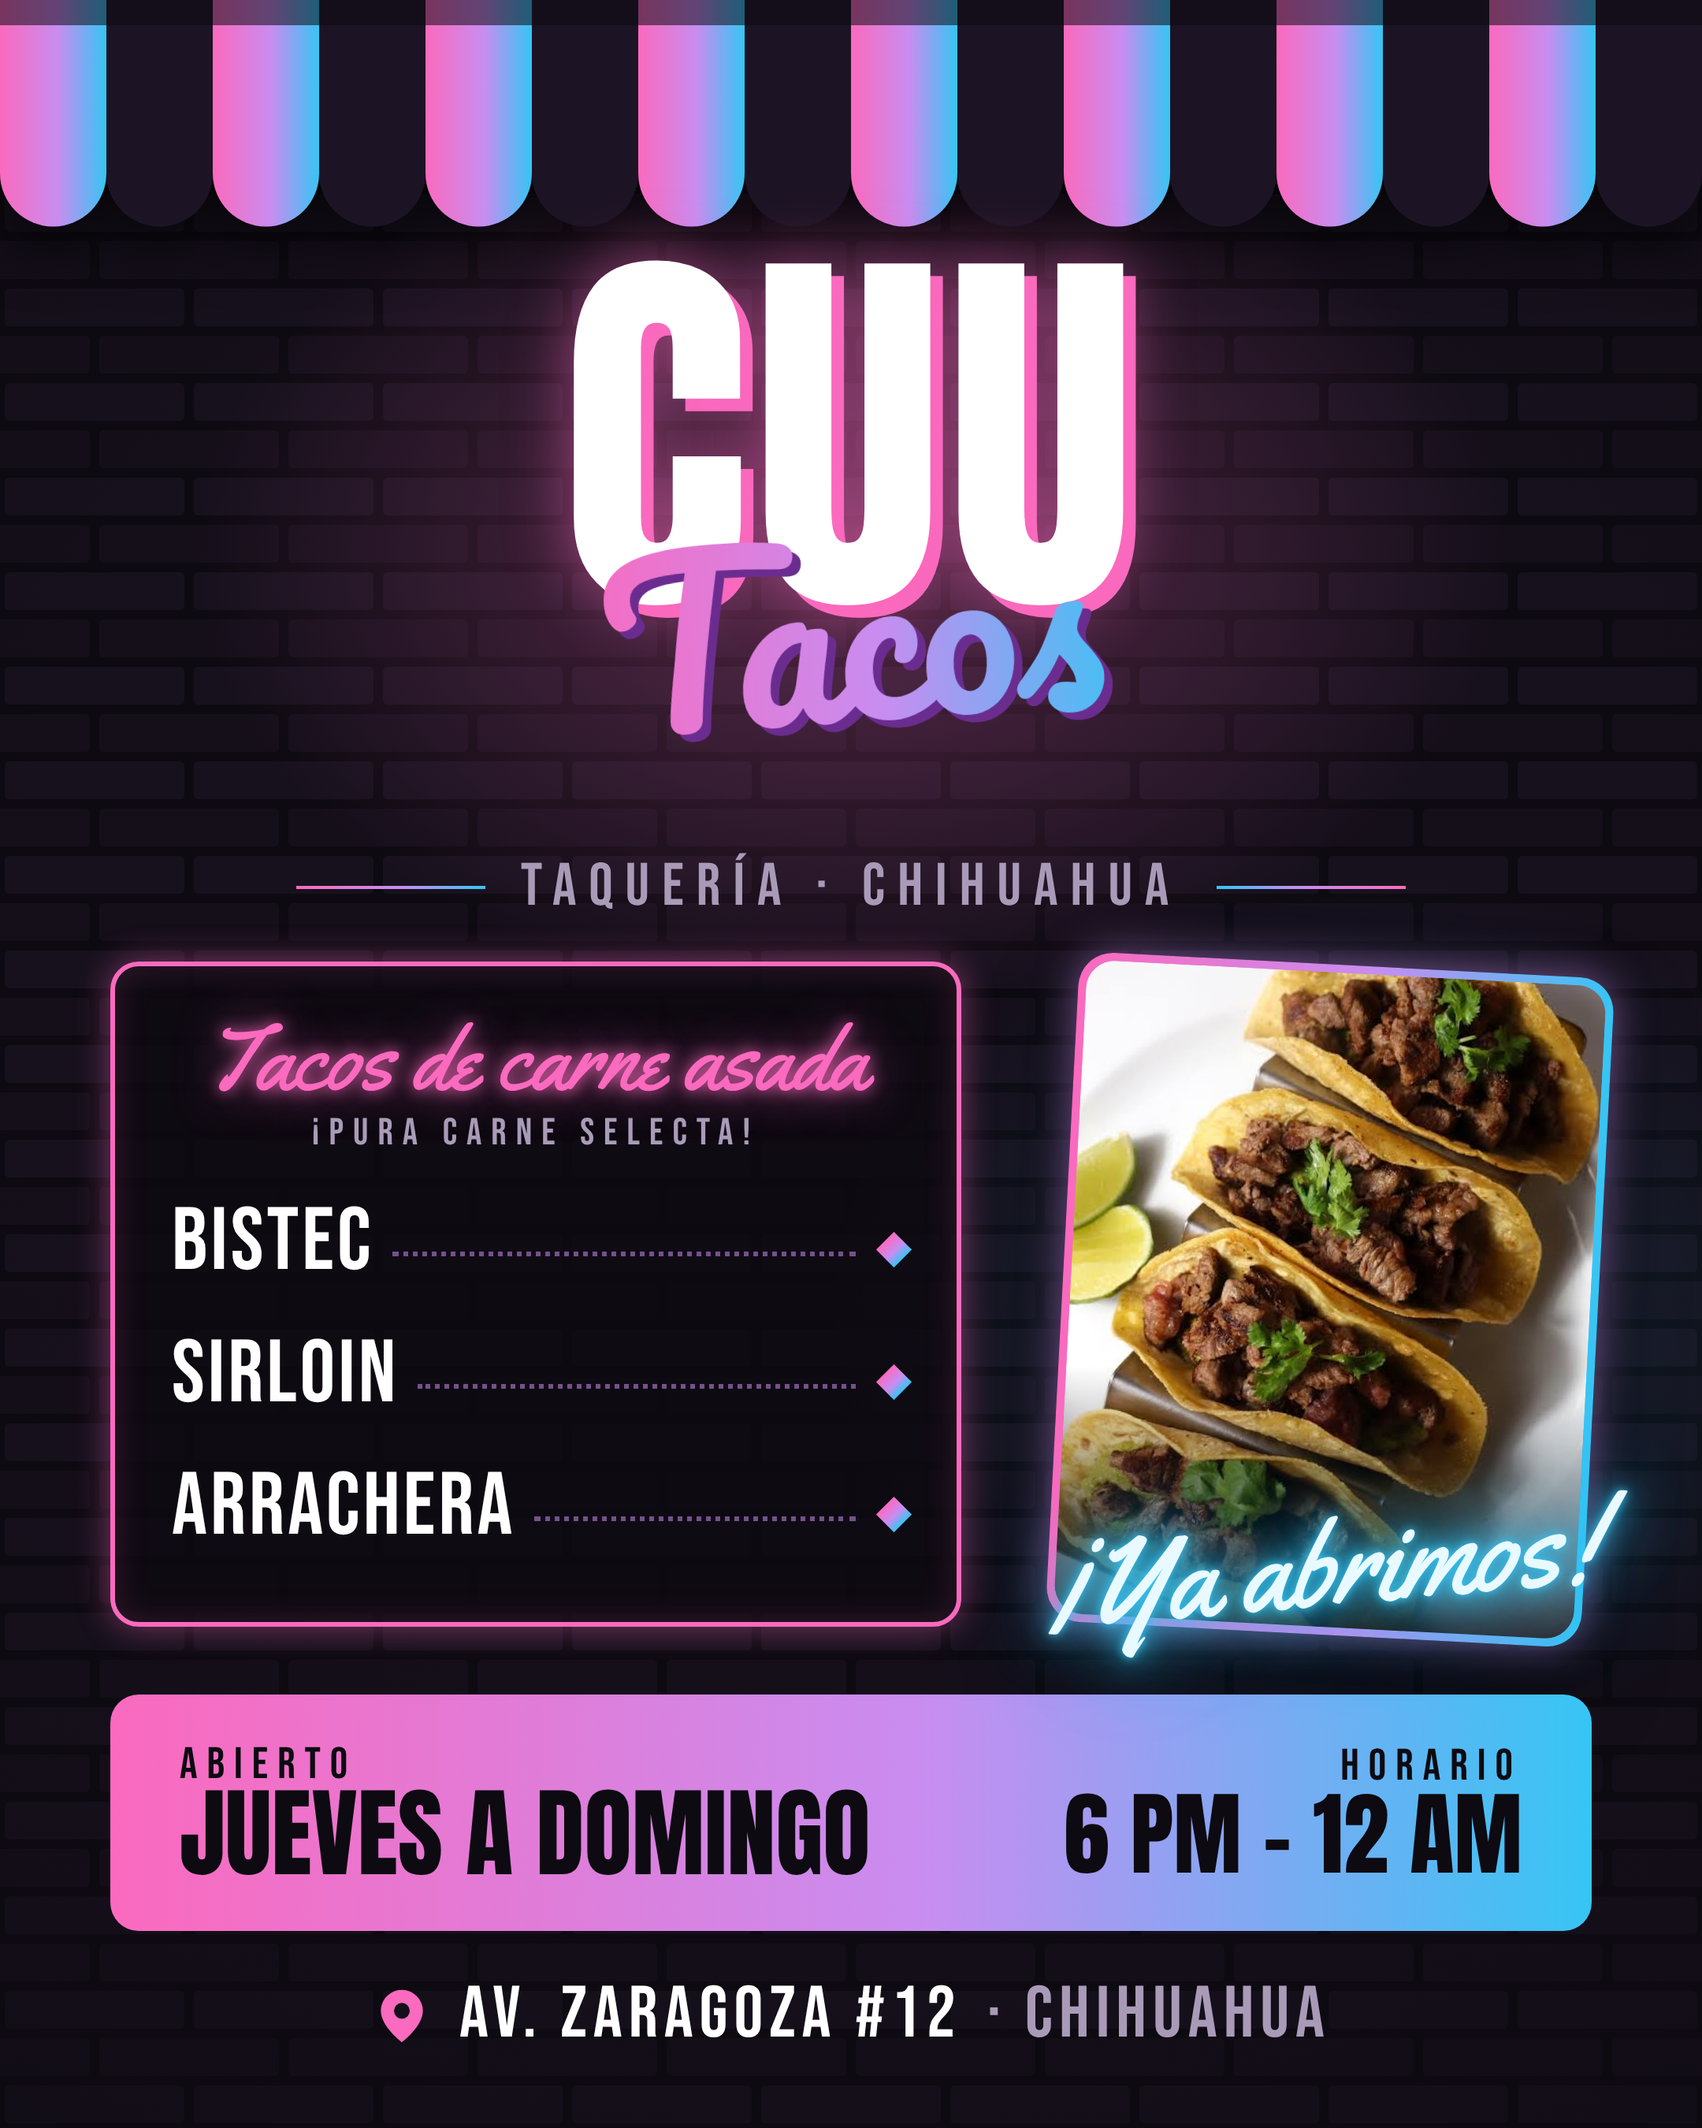
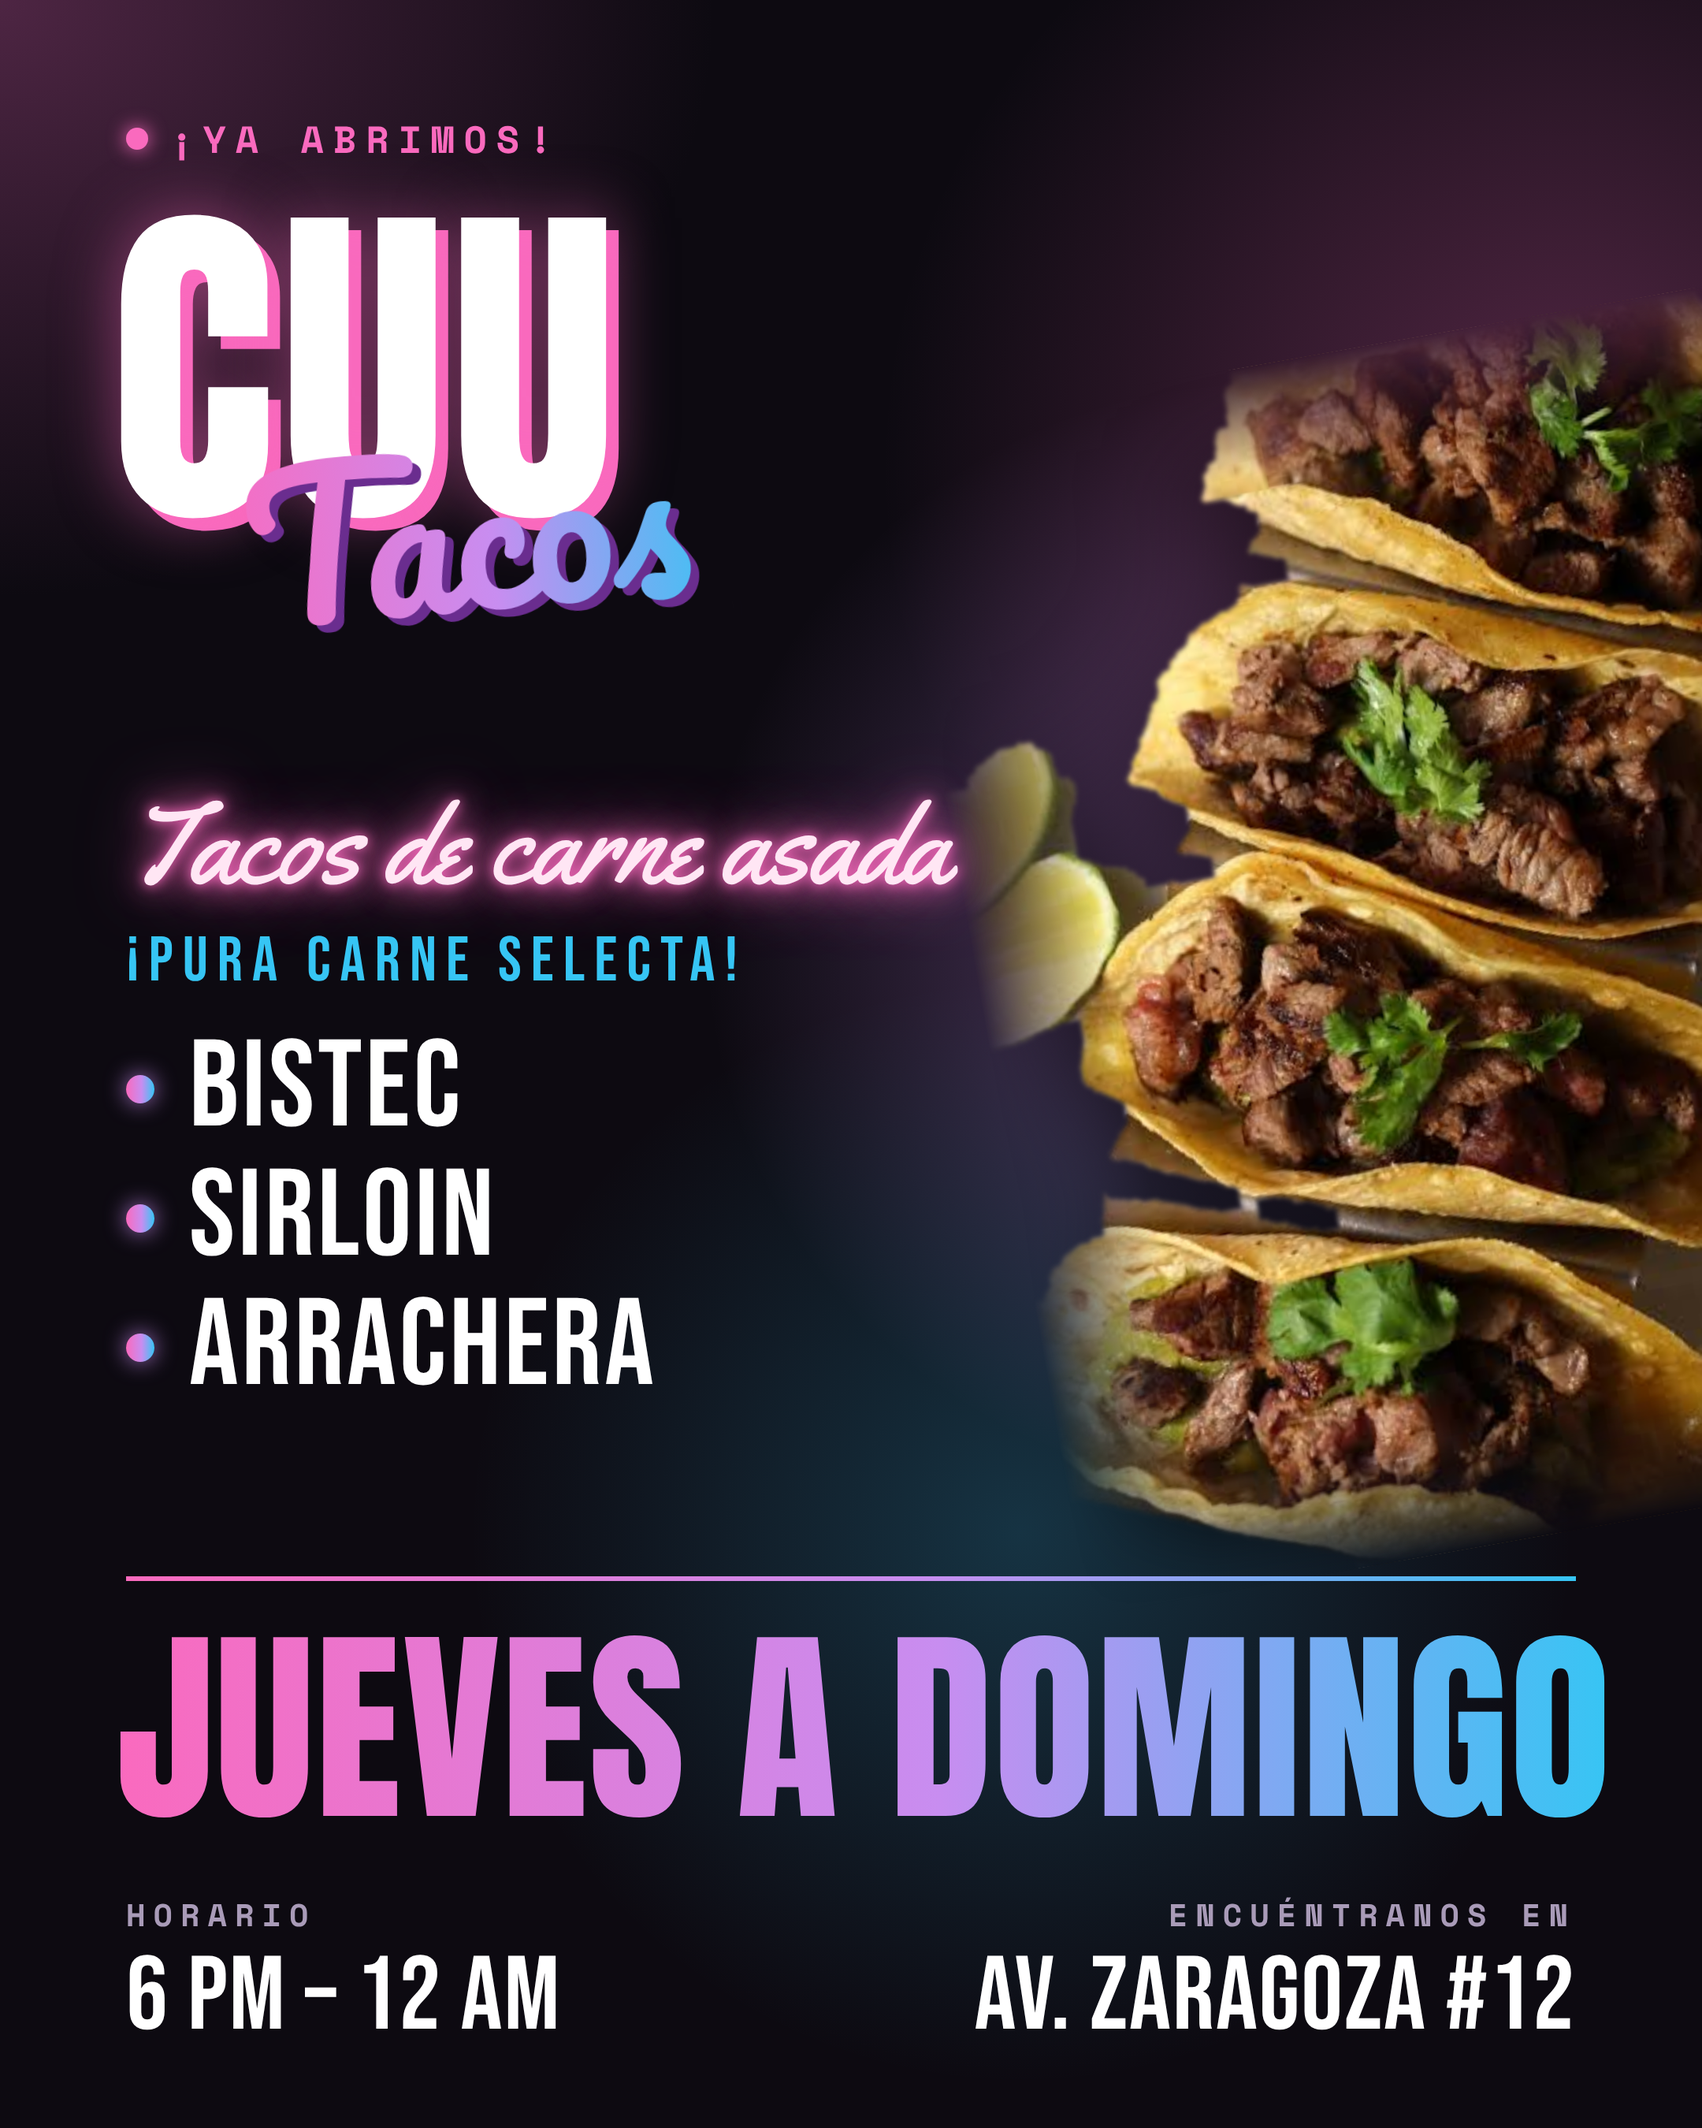
CUU Tacos flyer: modern boxless layout with cut-out taco photo
Claude-Session: https://claude.ai/code/session_014CHHJhy7rNb7XQQ2cW4zXW

diff --git a/flyers/cuu-tacos/flyer.html b/flyers/cuu-tacos/flyer.html
@@ -4,7 +4,7 @@
 <meta charset="UTF-8">
 <title>CUU Tacos — Flyer</title>
 <link rel="preconnect" href="https://fonts.googleapis.com">
-<link href="https://fonts.googleapis.com/css2?family=Anton&family=Pacifico&family=Bebas+Neue&family=Yellowtail&family=DM+Sans:wght@500;700&display=swap" rel="stylesheet">
+<link href="https://fonts.googleapis.com/css2?family=Anton&family=Pacifico&family=Bebas+Neue&family=Yellowtail&family=Space+Mono:wght@700&display=swap" rel="stylesheet">
 <style>
   /* Paleta CUU Studio */
   :root {
@@ -20,143 +20,83 @@
   * { margin: 0; padding: 0; box-sizing: border-box; }
   body { background: #222; }
   .flyer {
-    width: 1080px; height: 1350px; position: relative; overflow: hidden;
-    background: var(--bg); color: var(--white);
-    font-family: 'DM Sans', sans-serif;
-  }
-  .wall { position: absolute; inset: 0; }
-  .vignette { position: absolute; inset: 0;
+    width: 1080px; height: 1350px; position: relative; overflow: hidden; color: var(--white);
     background:
-      radial-gradient(ellipse 55% 30% at 50% 26%, rgba(250,106,190,.30), transparent 70%),
-      radial-gradient(ellipse 45% 30% at 80% 62%, rgba(54,197,244,.14), transparent 70%),
-      radial-gradient(ellipse 120% 90% at 50% 45%, transparent 40%, rgba(13,10,17,.92) 100%); }
-  .content { position: relative; height: 100%; }
+      radial-gradient(circle at 74% 44%, rgba(200,141,240,.38), transparent 32%),
+      radial-gradient(circle at 92% 22%, rgba(250,106,190,.30), transparent 30%),
+      radial-gradient(circle at 60% 72%, rgba(54,197,244,.22), transparent 30%),
+      radial-gradient(ellipse 60% 40% at 0% 0%, rgba(89,42,76,.85), transparent 70%),
+      var(--bg);
+  }
+  .abs { position: absolute; }
 
-  /* Toldo */
-  .awning { position: absolute; top: 0; left: 0; width: 100%; height: 150px; filter: drop-shadow(0 14px 18px rgba(0,0,0,.6)); }
+  /* Tacos recortados */
+  .tacos-img { right: -150px; top: 215px; width: 610px; transform: rotate(-10deg);
+    filter: drop-shadow(0 30px 40px rgba(0,0,0,.65));
+    -webkit-mask-image: linear-gradient(to bottom, transparent 0%, #000 9%, #000 90%, transparent 100%), linear-gradient(to right, transparent 0%, #000 14%);
+    -webkit-mask-composite: source-in;
+            mask-image: linear-gradient(to bottom, transparent 0%, #000 9%, #000 90%, transparent 100%), linear-gradient(to right, transparent 0%, #000 14%);
+            mask-composite: intersect; }
+
+  .label { left: 80px; top: 70px; display: flex; align-items: center; gap: 14px;
+    font-family: 'Space Mono', monospace; font-size: 24px; letter-spacing: 6px; color: var(--pink); text-transform: uppercase; }
+  .label::before { content: ""; width: 14px; height: 14px; border-radius: 50%; background: var(--pink); box-shadow: 0 0 12px var(--pink); }
 
   /* Logo */
-  .brand { position: absolute; top: 170px; left: 0; right: 0; text-align: center; line-height: .85; }
-  .brand .cuu { font-family: 'Anton', sans-serif; font-size: 250px; letter-spacing: 4px; color: var(--white);
-    text-shadow: 0 0 40px rgba(250,106,190,.55), 8px 8px 0 var(--pink); }
-  .brand .tacos { font-family: 'Pacifico', cursive; font-size: 140px; display: inline-block;
-    margin-top: -44px; padding: 0 24px 10px; transform: rotate(-4deg);
+  .brand { left: 70px; top: 140px; line-height: .85; }
+  .brand .cuu { font-family: 'Anton', sans-serif; font-size: 220px; letter-spacing: 4px; color: var(--white);
+    text-shadow: 0 0 40px rgba(250,106,190,.5), 8px 8px 0 var(--pink); }
+  .brand .tacos { font-family: 'Pacifico', cursive; font-size: 124px; display: inline-block;
+    margin: -44px 0 0 60px; padding: 0 24px 12px; transform: rotate(-5deg);
     background: var(--grad); -webkit-background-clip: text; background-clip: text; color: transparent;
     filter: drop-shadow(5px 5px 0 var(--deep)); }
 
-  .tagline { position: absolute; top: 540px; left: 0; right: 0; display: flex; align-items: center; justify-content: center; gap: 22px;
-    font-family: 'Bebas Neue', sans-serif; font-size: 38px; letter-spacing: 8px; color: var(--muted); }
-  .tagline::before, .tagline::after { content: ""; width: 120px; height: 2px; background: var(--grad); }
-  .tagline::after { transform: scaleX(-1); }
+  .headline { left: 80px; top: 500px; }
+  .headline h2 { font-family: 'Yellowtail', cursive; font-weight: 400; font-size: 72px; line-height: 1; color: #FFE6F4;
+    text-shadow: 0 0 8px var(--pink), 0 0 22px var(--pink), 0 0 44px rgba(250,106,190,.7); }
+  .headline p { margin-top: 14px; font-family: 'Bebas Neue', sans-serif; font-size: 40px; letter-spacing: 6px; color: var(--sky); }
 
-  /* Menú (pizarra) */
-  .menu { position: absolute; top: 610px; left: 70px; width: 540px; padding: 30px 36px 30px;
-    background: rgba(13,10,17,.82); border-radius: 18px;
-    border: 3px solid var(--pink); box-shadow: 0 0 22px rgba(250,106,190,.45), inset 0 0 22px rgba(250,106,190,.15); }
-  .menu h3 { font-family: 'Yellowtail', cursive; font-weight: 400; font-size: 58px; line-height: 1; color: var(--pink);
-    text-shadow: 0 0 10px rgba(250,106,190,.9), 0 0 30px rgba(250,106,190,.6); text-align: center; }
-  .menu h3 small { display: block; margin-top: 6px; font-family: 'Bebas Neue', sans-serif; font-size: 24px; letter-spacing: 6px; color: var(--muted); text-shadow: none; }
-  .menu ul { list-style: none; margin-top: 16px; }
-  .menu li { display: flex; align-items: baseline; gap: 12px; padding: 14px 0; }
-  .menu li b { font-family: 'Bebas Neue', sans-serif; font-weight: 400; font-size: 56px; letter-spacing: 2px; line-height: 1; }
-  .menu li i { flex: 1; border-bottom: 3px dotted rgba(200,141,240,.55); transform: translateY(-8px); }
-  .menu li span { width: 16px; height: 16px; transform: rotate(45deg) translateY(-6px); background: var(--grad); flex: none; }
+  .cuts { left: 80px; top: 650px; }
+  .cuts div { display: flex; align-items: center; gap: 22px; font-family: 'Bebas Neue', sans-serif; font-size: 78px; line-height: 1.05; letter-spacing: 2px; }
+  .cuts span { width: 18px; height: 18px; border-radius: 50%; background: var(--grad); box-shadow: 0 0 14px rgba(200,141,240,.8); }
 
-  /* Foto */
-  .photo { position: absolute; top: 612px; right: 66px; width: 340px; height: 425px; border-radius: 22px; padding: 5px;
-    background: var(--grad); transform: rotate(3deg);
-    box-shadow: 0 0 26px rgba(200,141,240,.55), 0 24px 50px rgba(0,0,0,.6); }
-  .photo img { width: 100%; height: 100%; object-fit: cover; border-radius: 18px; display: block; }
-  .photo::after { content: ""; position: absolute; inset: 5px; border-radius: 18px;
-    background: linear-gradient(to top, rgba(13,10,17,.85) 0%, rgba(13,10,17,0) 38%); }
-  .neon-open { position: absolute; top: 955px; right: 40px; width: 400px; white-space: nowrap; z-index: 2; text-align: center;
-    font-family: 'Yellowtail', cursive; font-size: 76px; line-height: 1; color: #E8FAFF; transform: rotate(-5deg);
-    text-shadow: 0 0 6px var(--sky), 0 0 18px var(--sky), 0 0 40px var(--sky), 0 0 70px rgba(54,197,244,.7); }
-
-  /* Letrero de horario */
-  .hours { position: absolute; top: 1075px; left: 70px; right: 70px; height: 150px;
-    display: flex; align-items: center; justify-content: space-between; padding: 0 44px;
-    background: var(--grad); border-radius: 18px; color: var(--bg); }
-  .hours .days { font-family: 'Anton', sans-serif; font-size: 62px; line-height: .95; text-transform: uppercase; }
-  .hours .days small { display: block; font-family: 'Bebas Neue', sans-serif; font-size: 28px; letter-spacing: 6px; }
-  .hours .time { text-align: right; font-family: 'Anton', sans-serif; font-size: 58px; line-height: 1; }
-  .hours .time small { display: block; font-family: 'Bebas Neue', sans-serif; font-size: 28px; letter-spacing: 6px; }
-
-  /* Dirección */
-  .addr { position: absolute; bottom: 44px; left: 0; right: 0; display: flex; align-items: center; justify-content: center; gap: 16px;
-    font-family: 'Bebas Neue', sans-serif; font-size: 46px; letter-spacing: 4px; }
-  .addr svg { width: 40px; height: 40px; }
-  .addr em { font-style: normal; color: var(--muted); }
+  /* Parte de abajo */
+  .rule { left: 80px; right: 80px; top: 1000px; height: 3px; background: var(--grad); }
+  .days { left: 74px; top: 1030px; font-family: 'Anton', sans-serif; font-size: 132px; line-height: 1; text-transform: uppercase; letter-spacing: 1px;
+    background: var(--grad); -webkit-background-clip: text; background-clip: text; color: transparent; }
+  .info { left: 80px; right: 80px; top: 1200px; display: flex; justify-content: space-between; align-items: flex-end; }
+  .info .k { font-family: 'Space Mono', monospace; font-size: 20px; letter-spacing: 5px; color: var(--muted); text-transform: uppercase; }
+  .info .v { font-family: 'Bebas Neue', sans-serif; font-size: 66px; line-height: 1; margin-top: 6px; letter-spacing: 1px; }
+  .info .r { text-align: right; }
 </style>
 </head>
 <body>
 <div class="flyer">
-  <!-- Pared de ladrillo -->
-  <svg class="wall" width="1080" height="1350">
-    <defs>
-      <pattern id="brick" width="120" height="60" patternUnits="userSpaceOnUse">
-        <rect width="120" height="60" fill="#0D0A11"/>
-        <rect x="3" y="3" width="114" height="24" rx="3" fill="#17111D"/>
-        <rect x="-57" y="33" width="114" height="24" rx="3" fill="#150F1A"/>
-        <rect x="63" y="33" width="114" height="24" rx="3" fill="#150F1A"/>
-      </pattern>
-    </defs>
-    <rect width="1080" height="1350" fill="url(#brick)"/>
-  </svg>
-  <div class="vignette"></div>
+  <img class="abs tacos-img" src="tacos-cut.png" alt="Tacos de carne asada">
 
-  <div class="content">
-    <!-- Toldo -->
-    <svg class="awning" viewBox="0 0 1080 150" preserveAspectRatio="none">
-      <defs>
-        <linearGradient id="g" x1="0" x2="1"><stop offset="0" stop-color="#FA6ABE"/><stop offset=".55" stop-color="#C88DF0"/><stop offset="1" stop-color="#36C5F4"/></linearGradient>
-        <pattern id="stripes" width="135" height="150" patternUnits="userSpaceOnUse">
-          <rect width="67.5" height="150" fill="url(#g)"/>
-          <rect x="67.5" width="67.5" height="150" fill="#1C1424"/>
-        </pattern>
-        <mask id="scallop">
-          <rect width="1080" height="110" fill="#fff"/>
-          <g fill="#fff">
-            <circle cx="33.75" cy="110" r="33.75"/><circle cx="101.25" cy="110" r="33.75"/><circle cx="168.75" cy="110" r="33.75"/><circle cx="236.25" cy="110" r="33.75"/>
-            <circle cx="303.75" cy="110" r="33.75"/><circle cx="371.25" cy="110" r="33.75"/><circle cx="438.75" cy="110" r="33.75"/><circle cx="506.25" cy="110" r="33.75"/>
-            <circle cx="573.75" cy="110" r="33.75"/><circle cx="641.25" cy="110" r="33.75"/><circle cx="708.75" cy="110" r="33.75"/><circle cx="776.25" cy="110" r="33.75"/>
-            <circle cx="843.75" cy="110" r="33.75"/><circle cx="911.25" cy="110" r="33.75"/><circle cx="978.75" cy="110" r="33.75"/><circle cx="1046.25" cy="110" r="33.75"/>
-          </g>
-        </mask>
-      </defs>
-      <rect width="1080" height="150" fill="url(#stripes)" mask="url(#scallop)"/>
-      <rect width="1080" height="16" fill="#0D0A11" opacity=".55"/>
-    </svg>
+  <div class="abs label">¡Ya abrimos!</div>
 
-    <div class="brand">
-      <div class="cuu">CUU</div>
-      <span class="tacos">Tacos</span>
-    </div>
+  <div class="abs brand">
+    <div class="cuu">CUU</div>
+    <span class="tacos">Tacos</span>
+  </div>
 
-    <div class="tagline">Taquería · Chihuahua</div>
+  <div class="abs headline">
+    <h2>Tacos de carne asada</h2>
+    <p>¡Pura carne selecta!</p>
+  </div>
 
-    <div class="menu">
-      <h3>Tacos de carne asada<small>¡Pura carne selecta!</small></h3>
-      <ul>
-        <li><b>Bistec</b><i></i><span></span></li>
-        <li><b>Sirloin</b><i></i><span></span></li>
-        <li><b>Arrachera</b><i></i><span></span></li>
-      </ul>
-    </div>
+  <div class="abs cuts">
+    <div><span></span>Bistec</div>
+    <div><span></span>Sirloin</div>
+    <div><span></span>Arrachera</div>
+  </div>
 
-    <!-- Foto -->
-    <div class="photo"><img src="tacos.jpg" alt="Tacos de carne asada"></div>
-    <div class="neon-open">¡Ya abrimos!</div>
-
-    <div class="hours">
-      <div class="days"><small>Abierto</small>Jueves a domingo</div>
-      <div class="time"><small>Horario</small>6 PM – 12 AM</div>
-    </div>
-
-    <div class="addr">
-      <svg viewBox="0 0 24 24" fill="#FA6ABE"><path d="M12 2C7.6 2 4 5.6 4 10c0 6 8 12 8 12s8-6 8-12c0-4.4-3.6-8-8-8zm0 11a3 3 0 1 1 0-6 3 3 0 0 1 0 6z"/></svg>
-      Av. Zaragoza #12 <em>· Chihuahua</em>
-    </div>
+  <div class="abs rule"></div>
+  <div class="abs days">Jueves a domingo</div>
+  <div class="abs info">
+    <div><div class="k">Horario</div><div class="v">6 PM – 12 AM</div></div>
+    <div class="r"><div class="k">Encuéntranos en</div><div class="v">Av. Zaragoza #12</div></div>
   </div>
 </div>
 </body>
